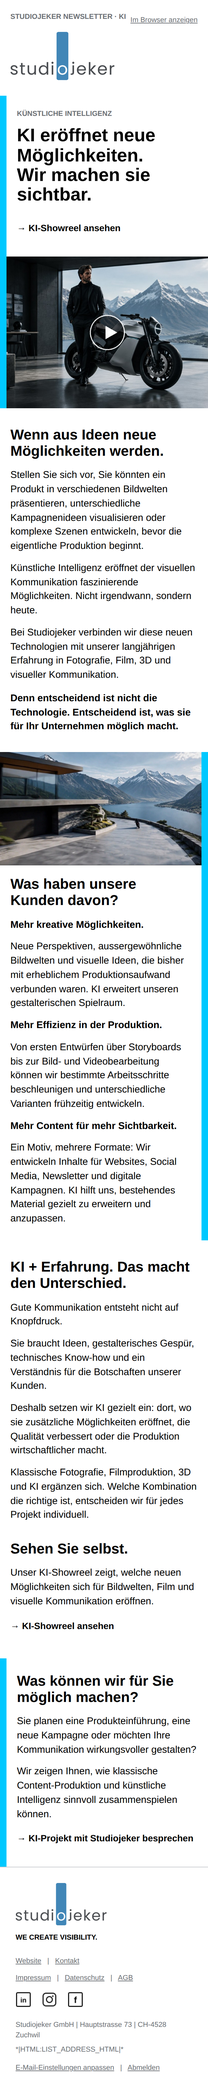
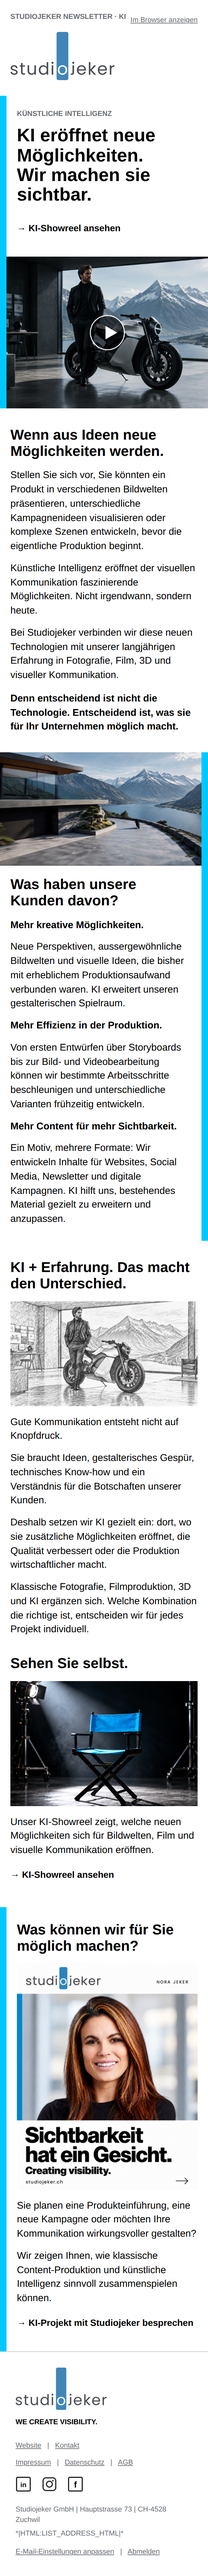
Insert the three KI section images and nothing else.
Scribble motorcycle under KI + Erfahrung, stage chair under the showreel, Nora under the closing question.

diff --git a/mailchimp/studiojeker-newsletter-ki.html b/mailchimp/studiojeker-newsletter-ki.html
@@ -37,9 +37,9 @@ a:focus-visible {outline:2px solid #000000;outline-offset:3px;}
 <tr><td class="sj-bleed" style="padding:0;background-color:#ffffff;"><table role="presentation" border="0" cellpadding="0" cellspacing="0" width="100%"><tr><td class="sj-bar" width="10" bgcolor="#00c8ff" style="width:10px;min-width:10px;max-width:10px;background-color:#00c8ff;font-size:0;line-height:0;">&nbsp;</td><td style="padding:0;"><table role="presentation" border="0" cellpadding="0" cellspacing="0" width="100%"><tr><td class="sj-stack sj-hero-text" width="44%" valign="middle" style="width:44%;padding:22px 20px;vertical-align:middle;"><div mc:edit="hero_eyebrow" style="font-family:Arial,Helvetica,sans-serif;font-size:11px;line-height:12.65px;font-weight:700;color:#6b6f74;margin:0 0 12px 0;">KÜNSTLICHE INTELLIGENZ</div><h1 class="sj-hero-heading" mc:edit="hero_headline" style="font-family:'Helvetica Now Display','HelveticaNeue-Black','Helvetica Neue Black','Arial Black','Helvetica Neue',Helvetica,Arial,sans-serif;font-size:32px;line-height:34.56px;font-weight:900;font-synthesis:none;margin:0;color:#000000;">KI eröffnet neue Möglichkeiten.<br>Wir machen sie sichtbar.</h1><div mc:edit="hero_video_cta" style="margin:14px 0 0 0;"><a class="sj-cta" href="https://vimeo.com/1228871502" target="_blank" style="font-family:Arial,Helvetica,sans-serif;font-size:14px;line-height:20px;font-weight:700;color:#000000;text-decoration:none;display:inline-block;padding:12px 0;">→ KI-Showreel ansehen</a></div></td><td class="sj-stack sj-hero-photo" width="56%" valign="middle" style="width:56%;padding:0;vertical-align:middle;"><a href="https://vimeo.com/1228871502" target="_blank" rel="noopener noreferrer" aria-label="KI-Showreel auf Vimeo ansehen" style="display:block;width:100%;border:0;text-decoration:none;font-size:0;line-height:0;"><img class="sj-hero-desktop" mc:edit="hero_image_desktop" src="https://raw.githubusercontent.com/mjeker99-collab/studiojeker-website/e8949b399a1e2a0efe2a1999fd0263348d2669e0/mailchimp/newsletter-ki/assets/ki-motorrad-hero-desktop-play.jpg" width="386" height="290" alt="KI-Motorradmotiv – Designer mit Motorrad vor den Alpen" style="display:block;width:100%;height:auto;border:0;outline:none;-ms-interpolation-mode:bicubic;" /><!--[if !mso]><!--><img class="sj-hero-mobile" mc:edit="hero_image_mobile" src="https://raw.githubusercontent.com/mjeker99-collab/studiojeker-website/e8949b399a1e2a0efe2a1999fd0263348d2669e0/mailchimp/newsletter-ki/assets/ki-motorrad-hero-mobile-play.jpg" width="386" height="290" alt="KI-Motorradmotiv – Designer mit Motorrad vor den Alpen" style="display:none;mso-hide:all;width:100%;height:auto;border:0;outline:none;-ms-interpolation-mode:bicubic;" /><!--<![endif]--></a></td></tr></table></td></tr></table></td></tr>
 <tr><td class="sj-section" style="padding:28px 20px 0 20px;background-color:#ffffff;"><h2 class="sj-heading" mc:edit="intro_headline" style="font-family:'Helvetica Now Display','HelveticaNeue-Black','Helvetica Neue Black','Arial Black','Helvetica Neue',Helvetica,Arial,sans-serif;font-size:24px;line-height:27.6px;font-weight:900;font-synthesis:none;color:#000000;margin:0 0 14px 0;">Wenn aus Ideen neue Möglichkeiten werden.</h2><div mc:edit="intro_body" style="font-family:Arial,Helvetica,sans-serif;font-size:15px;line-height:21.75px;font-weight:400;color:#000000;"><p style="font-family:Arial,Helvetica,sans-serif;font-size:15px;line-height:21.75px;font-weight:400;color:#000000;margin:0 0 12px 0;">Stellen Sie sich vor, Sie könnten ein Produkt in verschiedenen Bildwelten präsentieren, unterschiedliche Kampagnenideen visualisieren oder komplexe Szenen entwickeln, bevor die eigentliche Produktion beginnt.</p><p style="font-family:Arial,Helvetica,sans-serif;font-size:15px;line-height:21.75px;font-weight:400;color:#000000;margin:0 0 12px 0;">Künstliche Intelligenz eröffnet der visuellen Kommunikation faszinierende Möglichkeiten. Nicht irgendwann, sondern heute.</p><p style="font-family:Arial,Helvetica,sans-serif;font-size:15px;line-height:21.75px;font-weight:400;color:#000000;margin:0;">Bei Studiojeker verbinden wir diese neuen Technologien mit unserer langjährigen Erfahrung in Fotografie, Film, 3D und visueller Kommunikation.</p></div><p mc:edit="intro_claim" style="font-family:Arial,Helvetica,sans-serif;font-size:15px;line-height:21.75px;font-weight:700;color:#000000;margin:14px 0 0 0;">Denn entscheidend ist nicht die Technologie. Entscheidend ist, was sie für Ihr Unternehmen möglich macht.</p></td></tr>
 <tr><td class="sj-bleed" style="padding:28px 0 0 0;background-color:#ffffff;"><table role="presentation" border="0" cellpadding="0" cellspacing="0" width="100%"><tr><td class="sj-ai-inner" style="padding:22px 20px;"><table role="presentation" border="0" cellpadding="0" cellspacing="0" width="100%"><tr><td class="sj-stack sj-ai-photo" width="48%" valign="top" style="width:48%;vertical-align:top;padding:0 18px 0 0;"><img mc:edit="scene_image" src="https://raw.githubusercontent.com/mjeker99-collab/studiojeker-website/e8949b399a1e2a0efe2a1999fd0263348d2669e0/mailchimp/newsletter-ki/assets/ki-motorrad-szene.jpg" width="300" height="169" alt="KI-Motorradszene – Fahrt über eine Alpenterrasse" style="display:block;width:100%;height:auto;border:0;outline:none;-ms-interpolation-mode:bicubic;" /></td><td class="sj-stack sj-ai-text" width="52%" valign="top" style="width:52%;vertical-align:top;padding:0;"><h2 class="sj-heading" mc:edit="benefits_headline" style="font-family:'Helvetica Now Display','HelveticaNeue-Black','Helvetica Neue Black','Arial Black','Helvetica Neue',Helvetica,Arial,sans-serif;font-size:24px;line-height:27.6px;font-weight:900;font-synthesis:none;color:#000000;margin:0 0 14px 0;">Was haben unsere Kunden davon?</h2><div mc:edit="benefit_creative" style="font-family:Arial,Helvetica,sans-serif;font-size:15px;line-height:21.75px;font-weight:400;color:#000000;"><p style="font-family:Arial,Helvetica,sans-serif;font-size:15px;line-height:21.75px;font-weight:700;color:#000000;margin:0 0 12px 0;">Mehr kreative Möglichkeiten.</p><p style="font-family:Arial,Helvetica,sans-serif;font-size:15px;line-height:21.75px;font-weight:400;color:#000000;margin:0;">Neue Perspektiven, aussergewöhnliche Bildwelten und visuelle Ideen, die bisher mit erheblichem Produktionsaufwand verbunden waren. KI erweitert unseren gestalterischen Spielraum.</p></div></td></tr></table><div class="sj-ai-continuation" mc:edit="benefits_continuation" style="font-family:Arial,Helvetica,sans-serif;font-size:15px;line-height:21.75px;font-weight:400;color:#000000;padding-top:14px;"><p style="font-family:Arial,Helvetica,sans-serif;font-size:15px;line-height:21.75px;font-weight:700;color:#000000;margin:0 0 12px 0;">Mehr Effizienz in der Produktion.</p><p style="font-family:Arial,Helvetica,sans-serif;font-size:15px;line-height:21.75px;font-weight:400;color:#000000;margin:0 0 12px 0;">Von ersten Entwürfen über Storyboards bis zur Bild- und Videobearbeitung können wir bestimmte Arbeitsschritte beschleunigen und unterschiedliche Varianten frühzeitig entwickeln.</p><p style="font-family:Arial,Helvetica,sans-serif;font-size:15px;line-height:21.75px;font-weight:700;color:#000000;margin:0 0 12px 0;">Mehr Content für mehr Sichtbarkeit.</p><p style="font-family:Arial,Helvetica,sans-serif;font-size:15px;line-height:21.75px;font-weight:400;color:#000000;margin:0;">Ein Motiv, mehrere Formate: Wir entwickeln Inhalte für Websites, Social Media, Newsletter und digitale Kampagnen. KI hilft uns, bestehendes Material gezielt zu erweitern und anzupassen.</p></div></td><td class="sj-bar" width="10" bgcolor="#00c8ff" style="width:10px;min-width:10px;max-width:10px;background-color:#00c8ff;font-size:0;line-height:0;">&nbsp;</td></tr></table></td></tr>
-<tr><td class="sj-section" style="padding:28px 20px 0 20px;background-color:#ffffff;"><h2 class="sj-heading" mc:edit="experience_headline" style="font-family:'Helvetica Now Display','HelveticaNeue-Black','Helvetica Neue Black','Arial Black','Helvetica Neue',Helvetica,Arial,sans-serif;font-size:24px;line-height:27.6px;font-weight:900;font-synthesis:none;color:#000000;margin:0 0 14px 0;">KI + Erfahrung. Das macht den Unterschied.</h2><div mc:edit="experience_body" style="font-family:Arial,Helvetica,sans-serif;font-size:15px;line-height:21.75px;font-weight:400;color:#000000;"><p style="font-family:Arial,Helvetica,sans-serif;font-size:15px;line-height:21.75px;font-weight:400;color:#000000;margin:0 0 12px 0;">Gute Kommunikation entsteht nicht auf Knopfdruck.</p><p style="font-family:Arial,Helvetica,sans-serif;font-size:15px;line-height:21.75px;font-weight:400;color:#000000;margin:0 0 12px 0;">Sie braucht Ideen, gestalterisches Gespür, technisches Know-how und ein Verständnis für die Botschaften unserer Kunden.</p><p style="font-family:Arial,Helvetica,sans-serif;font-size:15px;line-height:21.75px;font-weight:400;color:#000000;margin:0 0 12px 0;">Deshalb setzen wir KI gezielt ein: dort, wo sie zusätzliche Möglichkeiten eröffnet, die Qualität verbessert oder die Produktion wirtschaftlicher macht.</p><p style="font-family:Arial,Helvetica,sans-serif;font-size:15px;line-height:21.75px;font-weight:400;color:#000000;margin:0;">Klassische Fotografie, Filmproduktion, 3D und KI ergänzen sich. Welche Kombination die richtige ist, entscheiden wir für jedes Projekt individuell.</p></div></td></tr>
-<tr><td class="sj-section" style="padding:28px 20px 0 20px;background-color:#ffffff;"><h2 class="sj-heading" mc:edit="showreel_headline" style="font-family:'Helvetica Now Display','HelveticaNeue-Black','Helvetica Neue Black','Arial Black','Helvetica Neue',Helvetica,Arial,sans-serif;font-size:24px;line-height:27.6px;font-weight:900;font-synthesis:none;color:#000000;margin:0 0 14px 0;">Sehen Sie selbst.</h2><div mc:edit="showreel_body" style="font-family:Arial,Helvetica,sans-serif;font-size:15px;line-height:21.75px;font-weight:400;color:#000000;"><p style="font-family:Arial,Helvetica,sans-serif;font-size:15px;line-height:21.75px;font-weight:400;color:#000000;margin:0;">Unser KI-Showreel zeigt, welche neuen Möglichkeiten sich für Bildwelten, Film und visuelle Kommunikation eröffnen.</p></div><div mc:edit="showreel_cta" style="margin:4px 0 0 0;"><a class="sj-cta" href="https://vimeo.com/1228871502" target="_blank" style="font-family:Arial,Helvetica,sans-serif;font-size:14px;line-height:20px;font-weight:700;color:#000000;text-decoration:none;display:inline-block;padding:12px 0;">→ KI-Showreel ansehen</a></div></td></tr>
-<tr><td class="sj-bleed" style="padding:28px 0 0 0;background-color:#ffffff;"><table role="presentation" border="0" cellpadding="0" cellspacing="0" width="100%"><tr><td class="sj-bar" width="10" bgcolor="#00c8ff" style="width:10px;min-width:10px;max-width:10px;background-color:#00c8ff;font-size:0;line-height:0;">&nbsp;</td><td class="sj-section" style="padding:22px 20px;background-color:#ffffff;"><h2 class="sj-heading" mc:edit="close_headline" style="font-family:'Helvetica Now Display','HelveticaNeue-Black','Helvetica Neue Black','Arial Black','Helvetica Neue',Helvetica,Arial,sans-serif;font-size:24px;line-height:27.6px;font-weight:900;font-synthesis:none;color:#000000;margin:0 0 14px 0;">Was können wir für Sie möglich machen?</h2><div mc:edit="close_body" style="font-family:Arial,Helvetica,sans-serif;font-size:15px;line-height:21.75px;font-weight:400;color:#000000;"><p style="font-family:Arial,Helvetica,sans-serif;font-size:15px;line-height:21.75px;font-weight:400;color:#000000;margin:0 0 12px 0;">Sie planen eine Produkteinführung, eine neue Kampagne oder möchten Ihre Kommunikation wirkungsvoller gestalten?</p><p style="font-family:Arial,Helvetica,sans-serif;font-size:15px;line-height:21.75px;font-weight:400;color:#000000;margin:0;">Wir zeigen Ihnen, wie klassische Content-Produktion und künstliche Intelligenz sinnvoll zusammenspielen können.</p></div><div mc:edit="close_cta" style="margin:4px 0 0 0;"><a class="sj-cta" href="https://www.studiojeker.ch/contact/" target="_blank" style="font-family:Arial,Helvetica,sans-serif;font-size:14px;line-height:20px;font-weight:700;color:#000000;text-decoration:none;display:inline-block;padding:12px 0;">→ KI-Projekt mit Studiojeker besprechen</a></div></td></tr></table></td></tr>
+<tr><td class="sj-section" style="padding:28px 20px 0 20px;background-color:#ffffff;"><h2 class="sj-heading" mc:edit="experience_headline" style="font-family:'Helvetica Now Display','HelveticaNeue-Black','Helvetica Neue Black','Arial Black','Helvetica Neue',Helvetica,Arial,sans-serif;font-size:24px;line-height:27.6px;font-weight:900;font-synthesis:none;color:#000000;margin:0 0 14px 0;">KI + Erfahrung. Das macht den Unterschied.</h2><img mc:edit="experience_image" src="https://raw.githubusercontent.com/mjeker99-collab/studiojeker-website/eb61ee26cf7a9e4355b385cb7233a8bd298ce970/mailchimp/newsletter-ki/assets/ki-erfahrung-scribble.jpg" width="1344" height="752" alt="KI-Motorradmotiv als Scribble" style="display:block;width:100%;height:auto;border:0;outline:none;-ms-interpolation-mode:bicubic;margin:0 0 14px 0;" /><div mc:edit="experience_body" style="font-family:Arial,Helvetica,sans-serif;font-size:15px;line-height:21.75px;font-weight:400;color:#000000;"><p style="font-family:Arial,Helvetica,sans-serif;font-size:15px;line-height:21.75px;font-weight:400;color:#000000;margin:0 0 12px 0;">Gute Kommunikation entsteht nicht auf Knopfdruck.</p><p style="font-family:Arial,Helvetica,sans-serif;font-size:15px;line-height:21.75px;font-weight:400;color:#000000;margin:0 0 12px 0;">Sie braucht Ideen, gestalterisches Gespür, technisches Know-how und ein Verständnis für die Botschaften unserer Kunden.</p><p style="font-family:Arial,Helvetica,sans-serif;font-size:15px;line-height:21.75px;font-weight:400;color:#000000;margin:0 0 12px 0;">Deshalb setzen wir KI gezielt ein: dort, wo sie zusätzliche Möglichkeiten eröffnet, die Qualität verbessert oder die Produktion wirtschaftlicher macht.</p><p style="font-family:Arial,Helvetica,sans-serif;font-size:15px;line-height:21.75px;font-weight:400;color:#000000;margin:0;">Klassische Fotografie, Filmproduktion, 3D und KI ergänzen sich. Welche Kombination die richtige ist, entscheiden wir für jedes Projekt individuell.</p></div></td></tr>
+<tr><td class="sj-section" style="padding:28px 20px 0 20px;background-color:#ffffff;"><h2 class="sj-heading" mc:edit="showreel_headline" style="font-family:'Helvetica Now Display','HelveticaNeue-Black','Helvetica Neue Black','Arial Black','Helvetica Neue',Helvetica,Arial,sans-serif;font-size:24px;line-height:27.6px;font-weight:900;font-synthesis:none;color:#000000;margin:0 0 14px 0;">Sehen Sie selbst.</h2><img mc:edit="showreel_image" src="https://raw.githubusercontent.com/mjeker99-collab/studiojeker-website/eb61ee26cf7a9e4355b385cb7233a8bd298ce970/mailchimp/newsletter-ki/assets/ki-showreel-stuhl.jpg" width="1536" height="1024" alt="Cyanblauer Regiestuhl auf der Bühne" style="display:block;width:100%;height:auto;border:0;outline:none;-ms-interpolation-mode:bicubic;margin:0 0 14px 0;" /><div mc:edit="showreel_body" style="font-family:Arial,Helvetica,sans-serif;font-size:15px;line-height:21.75px;font-weight:400;color:#000000;"><p style="font-family:Arial,Helvetica,sans-serif;font-size:15px;line-height:21.75px;font-weight:400;color:#000000;margin:0;">Unser KI-Showreel zeigt, welche neuen Möglichkeiten sich für Bildwelten, Film und visuelle Kommunikation eröffnen.</p></div><div mc:edit="showreel_cta" style="margin:4px 0 0 0;"><a class="sj-cta" href="https://vimeo.com/1228871502" target="_blank" style="font-family:Arial,Helvetica,sans-serif;font-size:14px;line-height:20px;font-weight:700;color:#000000;text-decoration:none;display:inline-block;padding:12px 0;">→ KI-Showreel ansehen</a></div></td></tr>
+<tr><td class="sj-bleed" style="padding:28px 0 0 0;background-color:#ffffff;"><table role="presentation" border="0" cellpadding="0" cellspacing="0" width="100%"><tr><td class="sj-bar" width="10" bgcolor="#00c8ff" style="width:10px;min-width:10px;max-width:10px;background-color:#00c8ff;font-size:0;line-height:0;">&nbsp;</td><td class="sj-section" style="padding:22px 20px;background-color:#ffffff;"><h2 class="sj-heading" mc:edit="close_headline" style="font-family:'Helvetica Now Display','HelveticaNeue-Black','Helvetica Neue Black','Arial Black','Helvetica Neue',Helvetica,Arial,sans-serif;font-size:24px;line-height:27.6px;font-weight:900;font-synthesis:none;color:#000000;margin:0 0 14px 0;">Was können wir für Sie möglich machen?</h2><img mc:edit="close_image" src="https://raw.githubusercontent.com/mjeker99-collab/studiojeker-website/eb61ee26cf7a9e4355b385cb7233a8bd298ce970/mailchimp/newsletter-ki/assets/ki-abschluss-nora.jpg" width="1122" height="1402" alt="Nora Jeker – Sichtbarkeit hat ein Gesicht" style="display:block;width:100%;height:auto;border:0;outline:none;-ms-interpolation-mode:bicubic;margin:0 0 14px 0;" /><div mc:edit="close_body" style="font-family:Arial,Helvetica,sans-serif;font-size:15px;line-height:21.75px;font-weight:400;color:#000000;"><p style="font-family:Arial,Helvetica,sans-serif;font-size:15px;line-height:21.75px;font-weight:400;color:#000000;margin:0 0 12px 0;">Sie planen eine Produkteinführung, eine neue Kampagne oder möchten Ihre Kommunikation wirkungsvoller gestalten?</p><p style="font-family:Arial,Helvetica,sans-serif;font-size:15px;line-height:21.75px;font-weight:400;color:#000000;margin:0;">Wir zeigen Ihnen, wie klassische Content-Produktion und künstliche Intelligenz sinnvoll zusammenspielen können.</p></div><div mc:edit="close_cta" style="margin:4px 0 0 0;"><a class="sj-cta" href="https://www.studiojeker.ch/contact/" target="_blank" style="font-family:Arial,Helvetica,sans-serif;font-size:14px;line-height:20px;font-weight:700;color:#000000;text-decoration:none;display:inline-block;padding:12px 0;">→ KI-Projekt mit Studiojeker besprechen</a></div></td></tr></table></td></tr>
 <tr><td class="sj-section sj-footer" style="padding:24px 24px 28px 24px;border-top:1px solid #c8ccd0;background-color:#ffffff;"><table class="sj-footer-layout" role="presentation" border="0" cellpadding="0" cellspacing="0" width="100%" style="width:100%;border-collapse:collapse;mso-table-lspace:0pt;mso-table-rspace:0pt;" ><tr><td class="sj-stack sj-footer-brand" width="50%" valign="top" style="width:50%;vertical-align:top;"><a href="https://www.studiojeker.ch/"><img mc:edit="footer_logo" src="https://cdn.jsdelivr.net/gh/mjeker99-collab/studiojeker-website@9584d5e/mailchimp/placeholders/logo.png" width="140" height="65" alt="Studiojeker" style="display:block;width:140px;height:auto;border:0;" /></a><div mc:edit="footer_claim" style="font-family:Arial,Helvetica,sans-serif;font-size:11px;line-height:15.95px;font-weight:700;margin-top:12px;color:#000000;">WE CREATE VISIBILITY.</div></td><td class="sj-stack sj-footer-links" rowspan="3" width="50%" valign="bottom" align="right" style="width:50%;vertical-align:bottom;text-align:right;padding-top:0;"><div mc:edit="footer_nav" style="font-family:Arial,Helvetica,sans-serif;font-size:11px;line-height:15.95px;color:#6b6f74;"><a href="https://www.studiojeker.ch/" style="color:#6b6f74;text-decoration:underline;">Website</a> &nbsp; | &nbsp; <a href="https://www.studiojeker.ch/contact/" style="color:#6b6f74;text-decoration:underline;">Kontakt</a></div><div mc:edit="footer_legal" style="font-family:Arial,Helvetica,sans-serif;font-size:11px;line-height:15.95px;color:#6b6f74;padding-top:10px;"><a href="https://www.studiojeker.ch/impressum/" style="color:#6b6f74;text-decoration:underline;">Impressum</a> &nbsp; | &nbsp; <a href="https://www.studiojeker.ch/datenschutz/" style="color:#6b6f74;text-decoration:underline;">Datenschutz</a> &nbsp; | &nbsp; <a href="https://www.studiojeker.ch/agb/" style="color:#6b6f74;text-decoration:underline;">AGB</a></div><table role="presentation" border="0" cellpadding="0" cellspacing="0" align="right" class="sj-social-table" style="margin-top:12px;"><tr><td width="32" style="width:32px;padding:0 8px 0 0;"><a href="https://www.linkedin.com/company/studiojeker/" target="_blank"><img src="https://cdn.jsdelivr.net/gh/mjeker99-collab/studiojeker-website@9584d5e/mailchimp/placeholders/icon_linkedin.png" width="24" height="24" alt="LinkedIn" style="display:block;width:24px;height:24px;border:0;" /></a></td><td width="32" style="width:32px;padding:0 8px 0 0;"><a href="https://www.instagram.com/studiojeker/" target="_blank"><img src="https://cdn.jsdelivr.net/gh/mjeker99-collab/studiojeker-website@9584d5e/mailchimp/placeholders/icon_instagram.png" width="24" height="24" alt="Instagram" style="display:block;width:24px;height:24px;border:0;" /></a></td><td width="32" style="width:32px;padding:0 8px 0 0;"><a href="https://www.facebook.com/studiojeker/" target="_blank"><img src="https://cdn.jsdelivr.net/gh/mjeker99-collab/studiojeker-website@9584d5e/mailchimp/placeholders/icon_facebook.png" width="24" height="24" alt="Facebook" style="display:block;width:24px;height:24px;border:0;" /></a></td></tr></table></td></tr><tr><td class="sj-footer-details" style="font-family:Arial,Helvetica,sans-serif;font-size:11px;line-height:15.95px;color:#6b6f74;padding-top:20px;"><div mc:edit="footer_company">Studiojeker GmbH | Hauptstrasse 73 | CH-4528 Zuchwil</div><div style="margin-top:6px;">*|HTML:LIST_ADDRESS_HTML|*</div></td></tr><tr><td class="sj-footer-details" style="font-family:Arial,Helvetica,sans-serif;font-size:11px;line-height:15.95px;color:#6b6f74;padding-top:12px;"><a href="*|UPDATE_PROFILE|*" style="color:#6b6f74;text-decoration:underline;">E-Mail-Einstellungen anpassen</a> &nbsp; | &nbsp; <a href="*|UNSUB|*" style="color:#6b6f74;text-decoration:underline;">Abmelden</a></td></tr></table></td></tr></table>
 <!--[if mso]></td></tr></table><![endif]-->
 </center></body></html>
